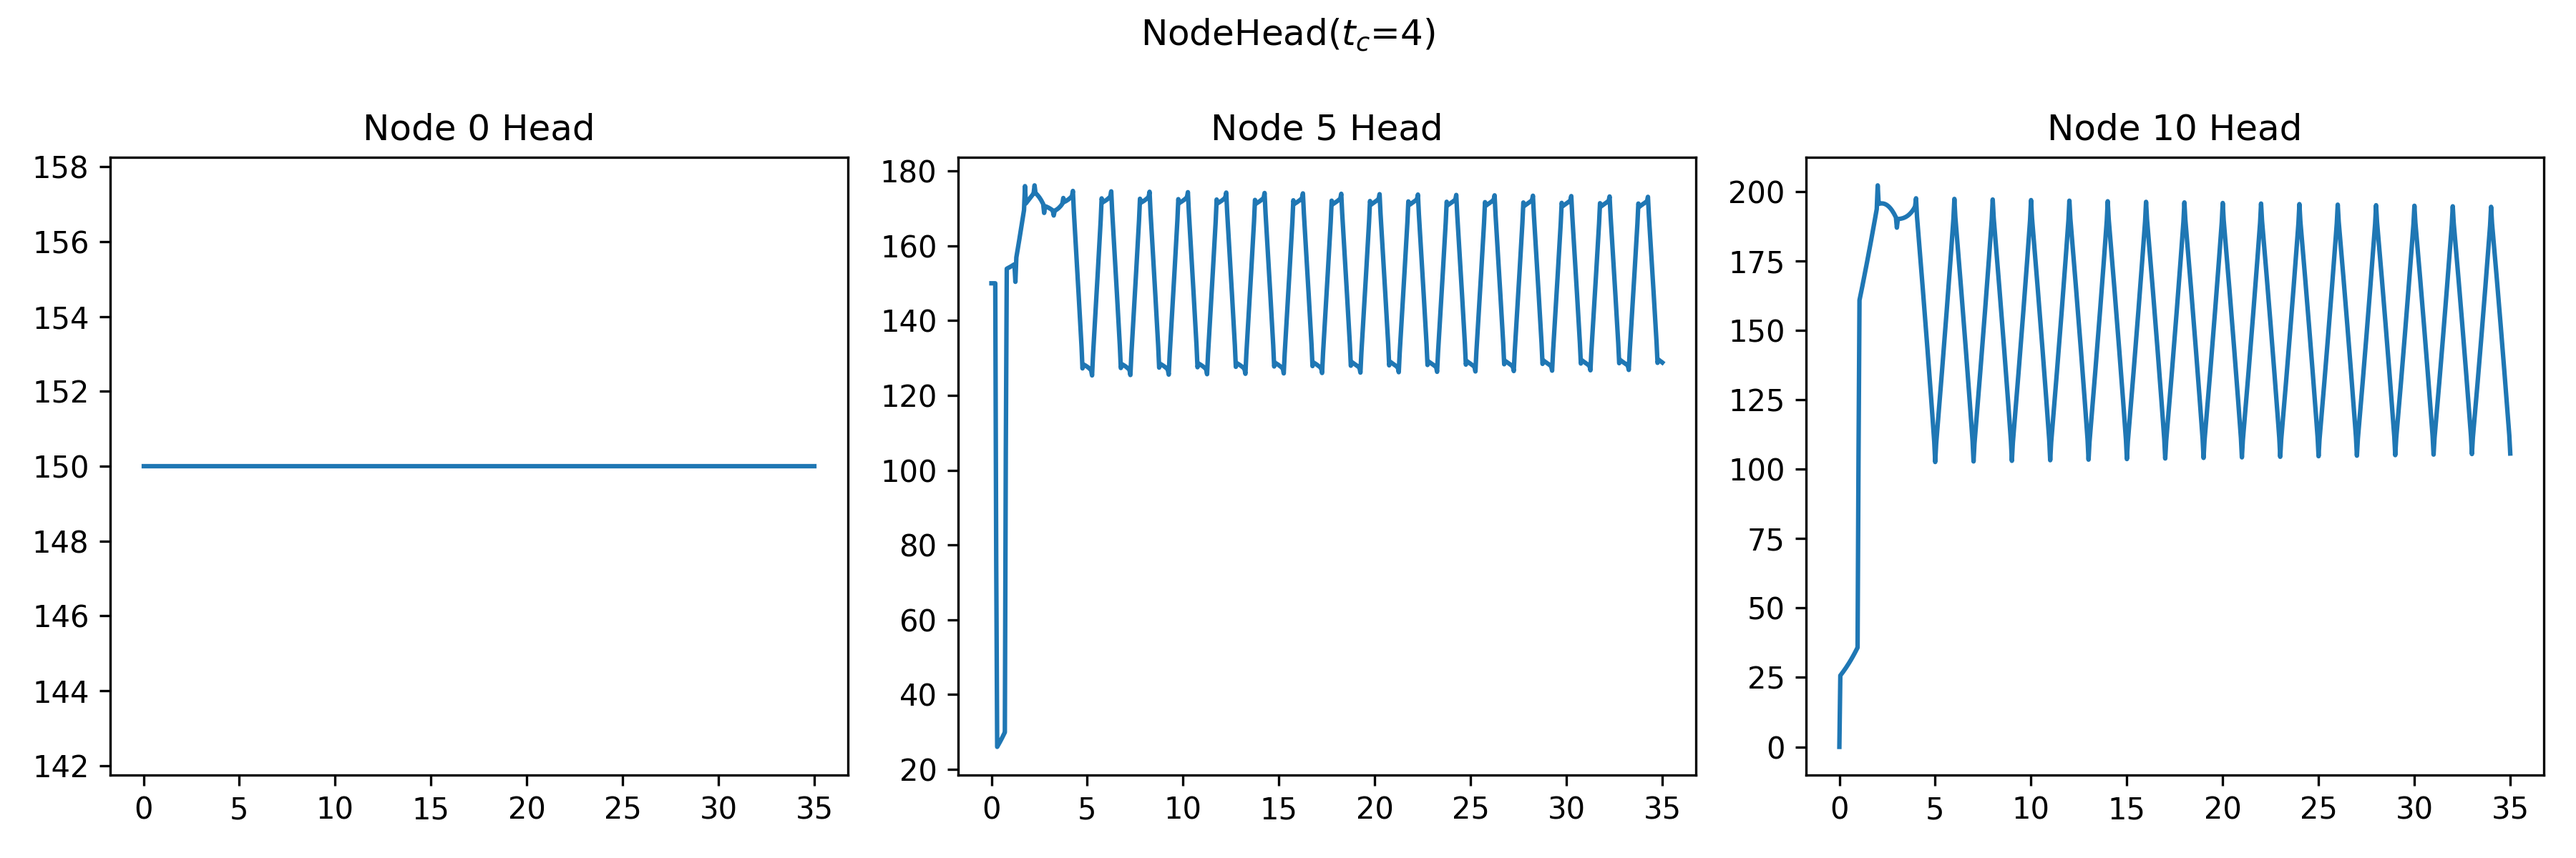
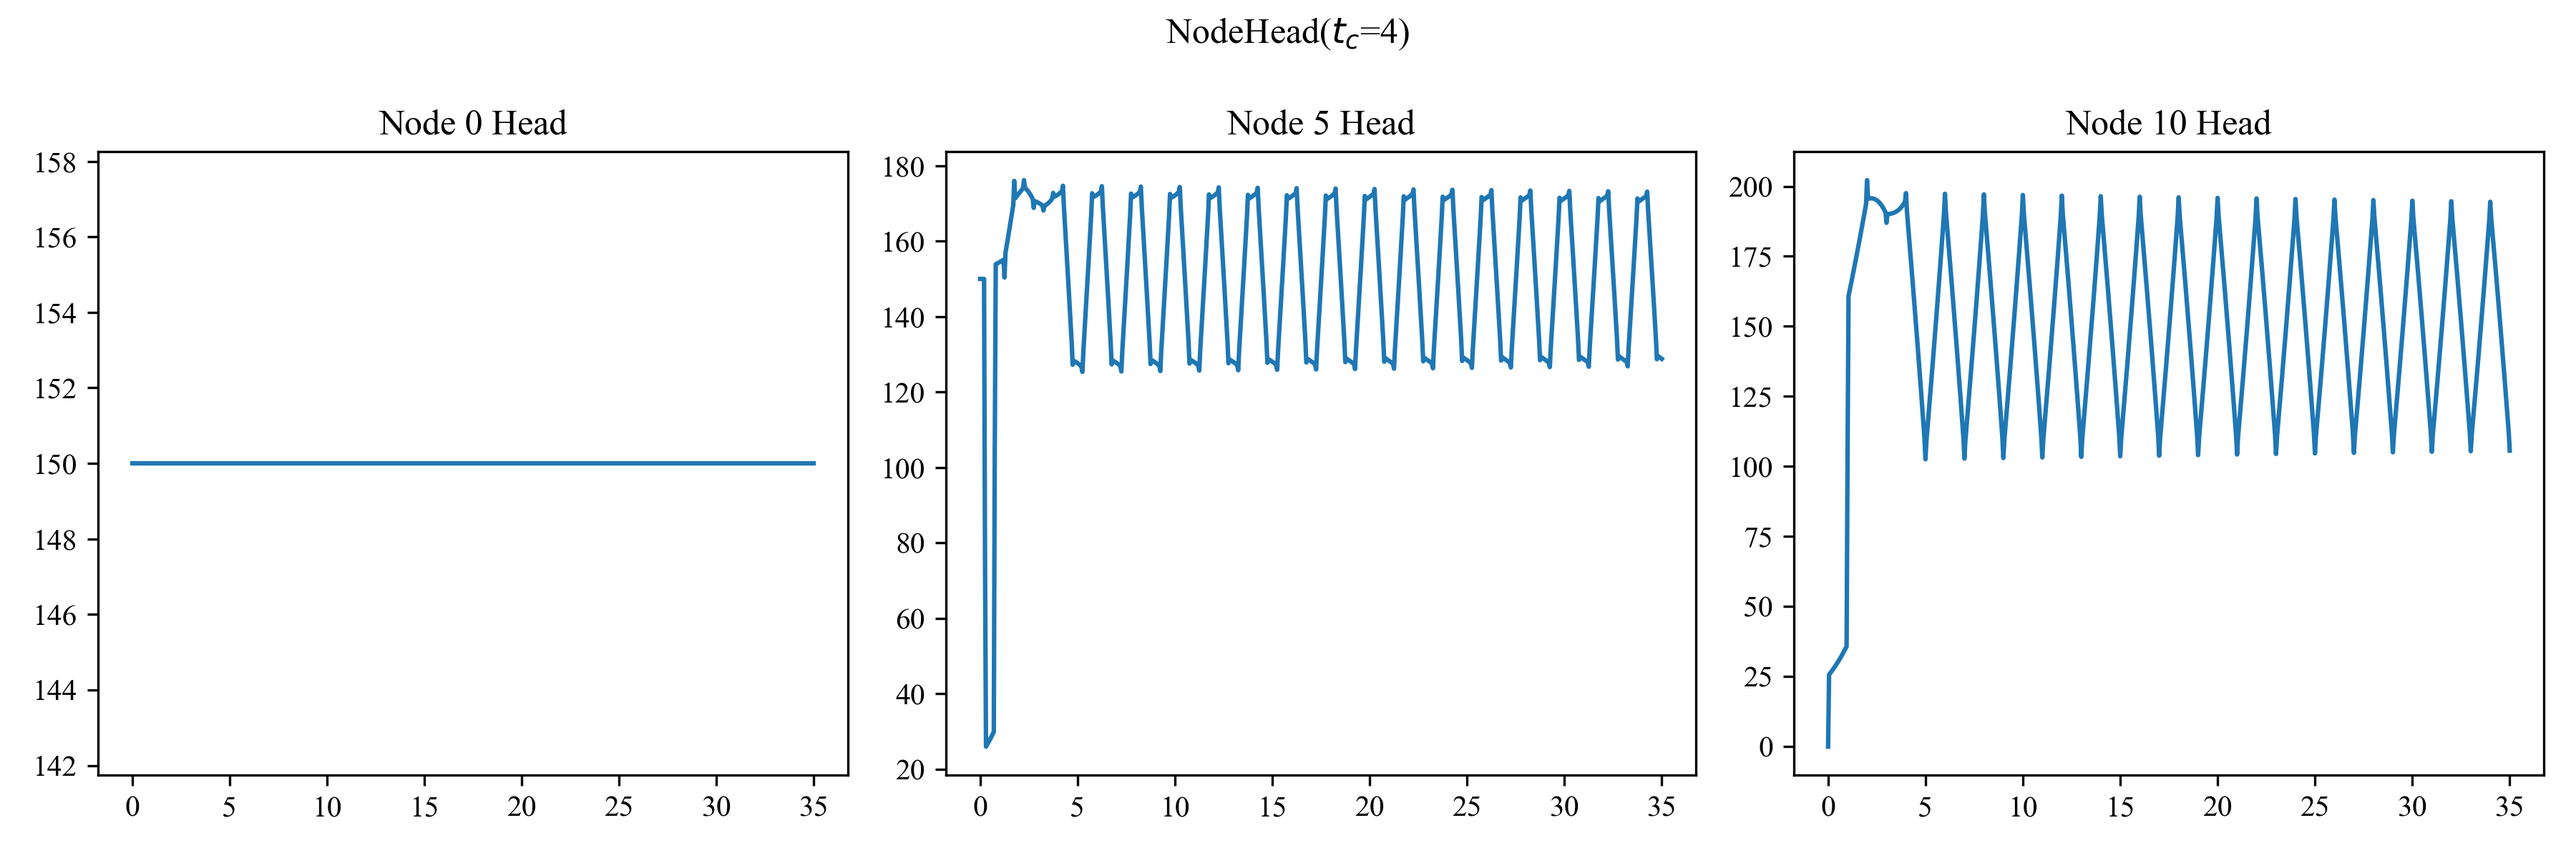
question3

diff --git a/自主研究探索课程（1）/作业/Question3/Question3.py b/自主研究探索课程（1）/作业/Question3/Question3.py
@@ -1,5 +1,6 @@
 import numpy as np
 import matplotlib.pyplot as plt
+from matplotlib import font_manager
 
 H_R = 150
 L = 600
@@ -9,7 +10,7 @@ f = 0.018
 k = 0.009
 # 即C_dA_g
 g = 9.806
-t_c = 2.5
+t_c = 4
 #修改t_c即可得到不同t_c下的结果
 E_m = 1
 Q_0 = k*np.sqrt(2*g*H_R)
@@ -62,7 +63,7 @@ for i in range(1,N_t+1):
 # 画出流量Q随时间变化
 fig, ax = plt.subplots(1,3)
 fig.set_size_inches(12,4)
-# plt.rcParams['font.family'] = 'Times New Roman'
+plt.rcParams['font.family'] = 'Times New Roman'
 
 
 fig.suptitle('NodeTraffic($t_c$='+str(t_c)[0:4]+')')
